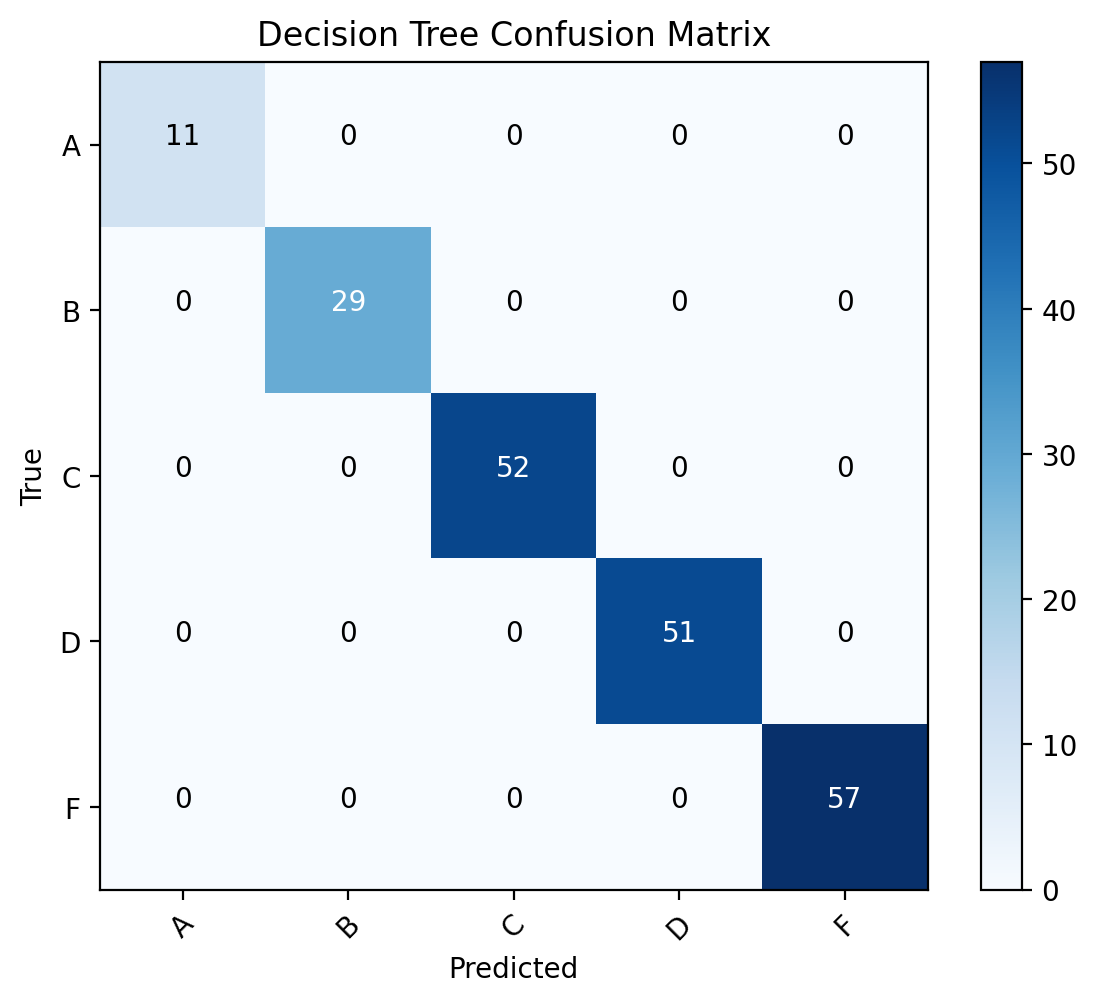
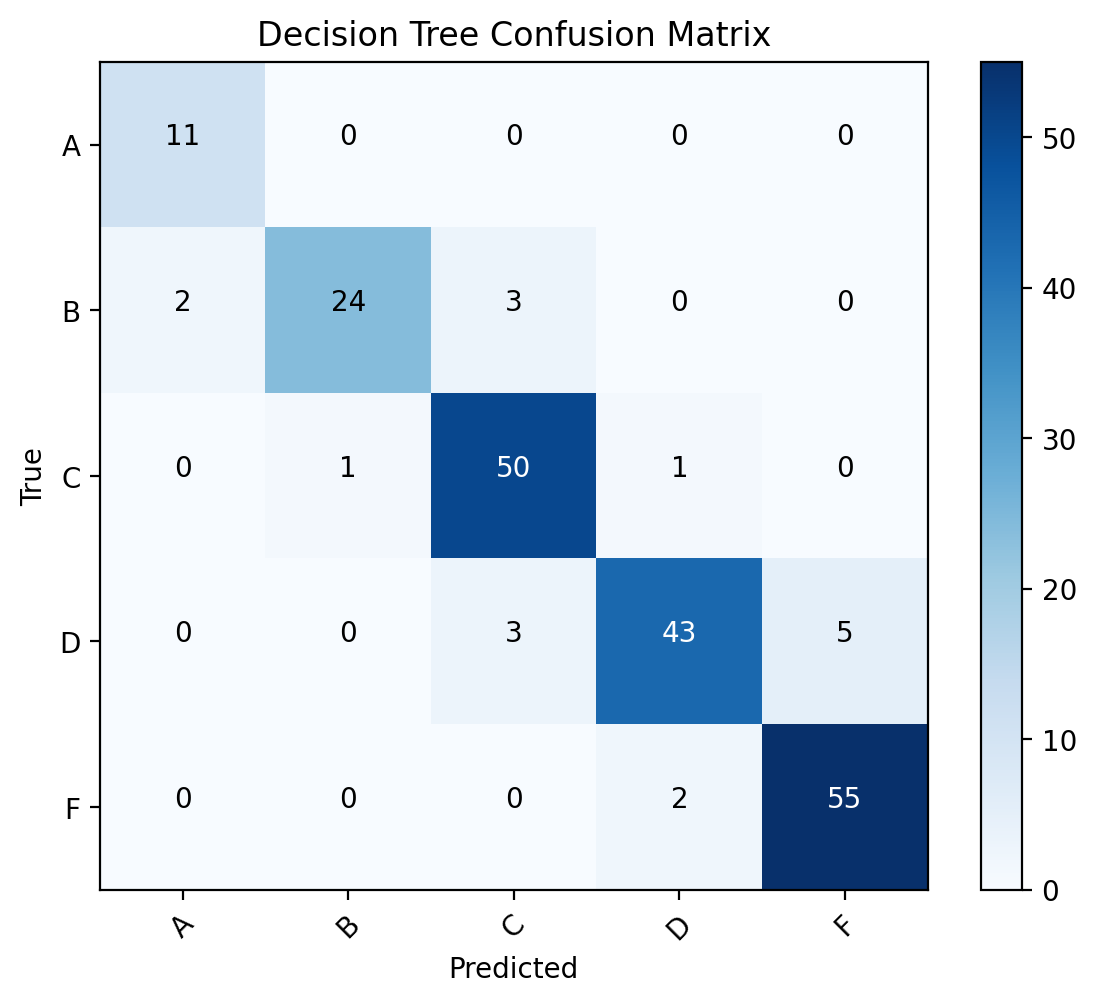
correcting the models

diff --git a/src/train.py b/src/train.py
@@ -24,7 +24,7 @@ def main():
     )
 
     cat_cols = ["gender", "race_ethnicity", "parent_edu", "lunch", "test_prep"]
-    num_cols = ["math", "reading", "writing", "avg_score", "parent_college"]
+    num_cols = ["math", "reading", "writing", "parent_college"]
 
     preprocessor = ColumnTransformer([
         ("cat", OneHotEncoder(handle_unknown="ignore"), cat_cols),

diff --git a/README.md b/README.md
@@ -1,66 +1,15 @@
-# Student Grade Classifier (Shallow ML)
+## Grade Classifier
 
-**Goal:** Predict a student's *letter grade* (A/B/C/D/F) using shallow learning techniques from study context and exam scores.
+**Description:** Use various different metrics about students like their parents colllege level or weather they get free lunch or not to try and predict their final grades
 
-This repository is structured to satisfy the midterm specification you provided: baseline vs. shallow models, proper evaluation, reproducibility, and a short video/walkthrough.
+**Motivation:** I would like to do this not only because it is interesting but also I think things like this can help students, espceially those who might need more support than others in order to produce better learning results, such as students with free/reduced lunch most of the time prefrom worse than the others and that means that their living condition and wealth do have an effect on their grades, meaning that giving those students more support would most likely help them to perform better in school
 
-## Dataset
+**Setup/Installation**
+- install all of the dependencies in the requirments file
+- run python -m src.train in order to run the training file
+- view the rerults in the results folder
+# Note: all of this was done on CSCode and was run with the python environment of 3.17
 
-- **Primary:** *Students Performance in Exams* — Kaggle (SPScientist, CC0)
-- Local copy saved at `data/StudentsPerformance.csv`.
-- Columns (original): `gender`, `race/ethnicity`, `parental level of education`, `lunch`, `test preparation course`, `math score`, `reading score`, `writing score`.
-- Engineered:
-  - `avg_score = (math + reading + writing)/3`
-  - `parent_college = 1 if parental education indicates any college/associate/bachelor/master else 0`
-  - `letter_grade` from `avg_score` using standard 10-point bins: A (90+), B (80-89), C (70-79), D (60-69), F (<60).
+**Reproduce Results:** to reproduce the results just follow the setup/install process as that should be all that is nececary seeeing as how the seed is pre set to 42
 
-## Quickstart
-
-```bash
-# (optional) create/activate a venv first
-pip install -r requirements.txt
-
-# Run the training script end-to-end
-python -m src.train
-```
-
-Outputs (confusion matrices, metrics tables) are written to `results/` and also printed.
-A fully reproducible EDA + modeling notebook is in `notebooks/midterm_pipeline.ipynb`.
-
-## Reproducibility
-
-- Random seeds fixed (`RANDOM_STATE=42`).
-- Versions pinned in `requirements.txt`.
-- Script reads `data/StudentsPerformance.csv`. If missing, update `DATA_PATH` in `src/constants.py`.
-
-## Repository Layout
-
-```
-student-grade-classifier/
-├── README.md
-├── requirements.txt
-├── data/
-│   └── StudentsPerformance.csv
-├── notebooks/
-│   └── midterm_pipeline.ipynb
-├── src/
-│   ├── constants.py
-│   ├── features.py
-│   ├── evaluation.py
-│   └── train.py
-├── results/
-└── presentation/
-```
-
-## How to Reproduce Results
-
-1. Install dependencies and run `python -m src.train`.
-2. Check `results/` for figures and metrics CSV.
-3. Optionally open the notebook for EDA and re-run cells.
-
-## Notes
-
-- Baseline: Majority-class classifier.
-- Models: Logistic Regression, Decision Tree, k-NN.
-- Metrics: Accuracy, macro-F1; confusion matrices saved as PNG.
-- Split: Stratified train/test split (80/20) + cross-validation (5-fold) on train.
+**Key Findings:** Some of the ai findings that I found are that studying prep always helps, lunch type actually matters as it shows possible bad conditions at the home of the student affecting study conditions, and the parents education level did also matter in the end, all this shows that the economic status and preperation for the tests are all factors that will lead to higher or lower test grades for the students
